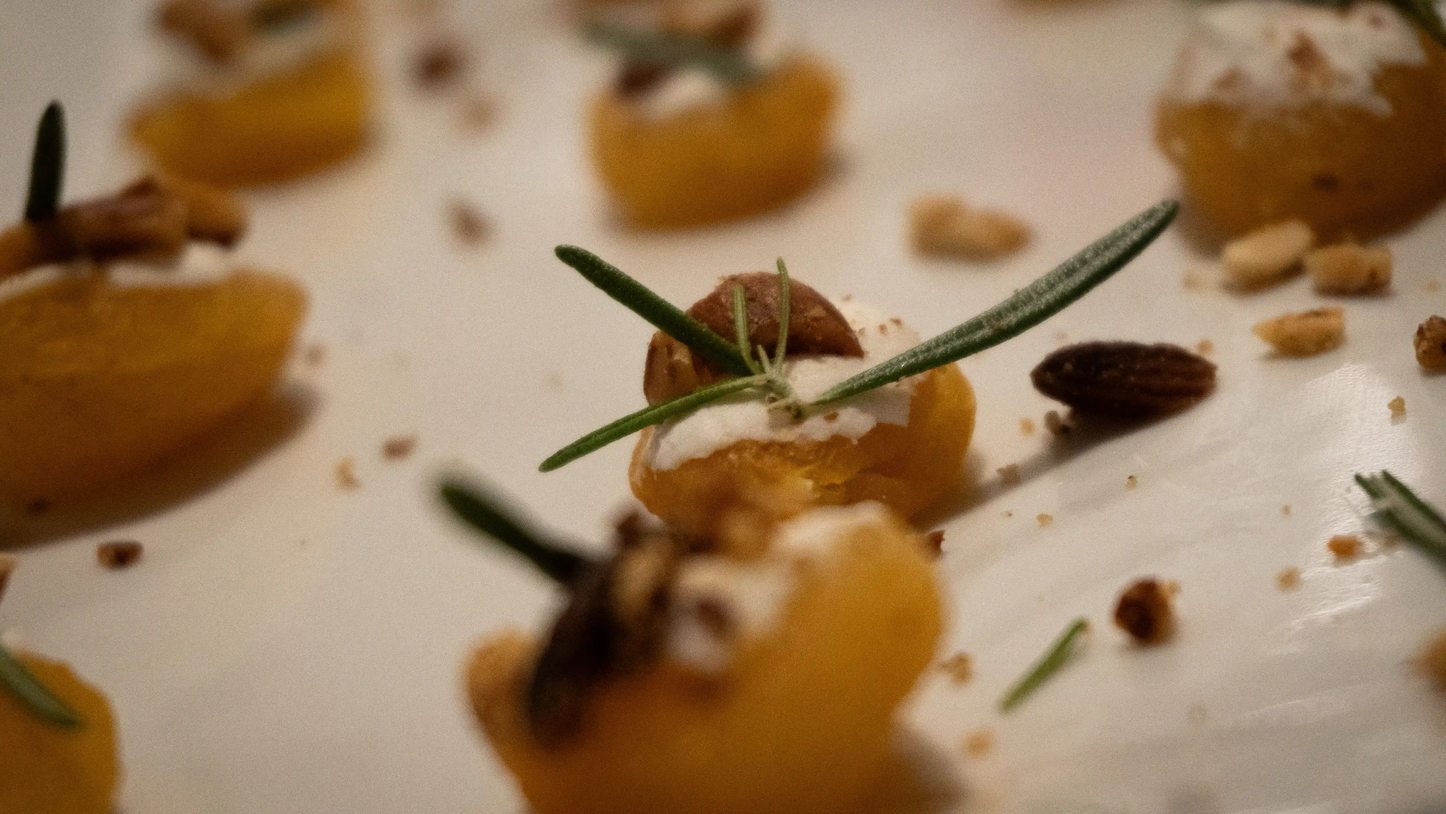
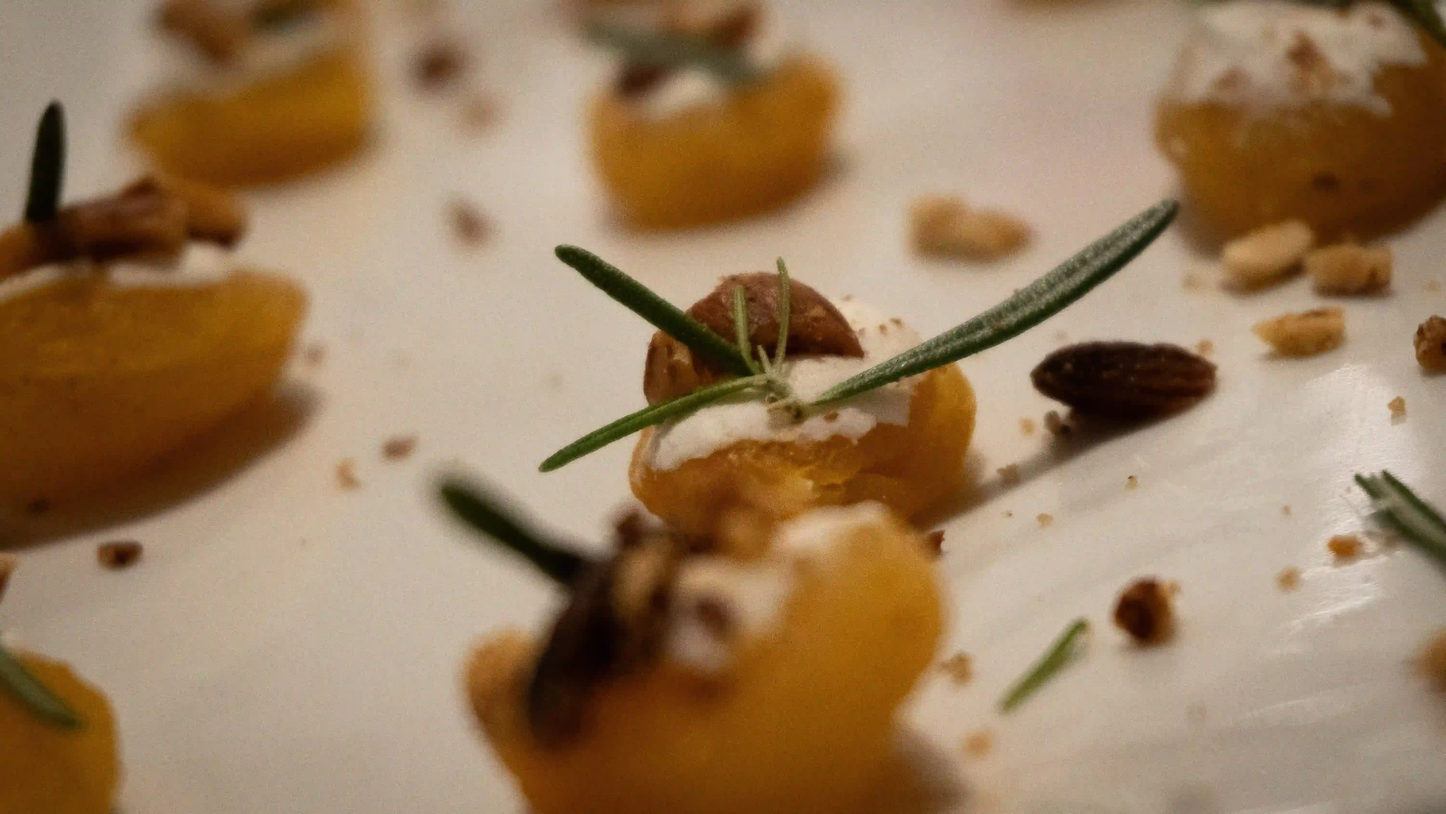
Shrunk some images and lazy-d some loading

diff --git a/project/home.html b/project/home.html
@@ -35,7 +35,7 @@
     <main>
         <section class="hero">
             <h2>Welcome</h2>
-            <img src="images/PlaceSetting.webp" alt="Fruit Platter" class="hero-image">
+            <img src="images/PlaceSetting.webp" alt="Fruit Platter" class="hero-image" loading="lazy">
         </section>
         <section class="link-cards">
             <div class="card">
